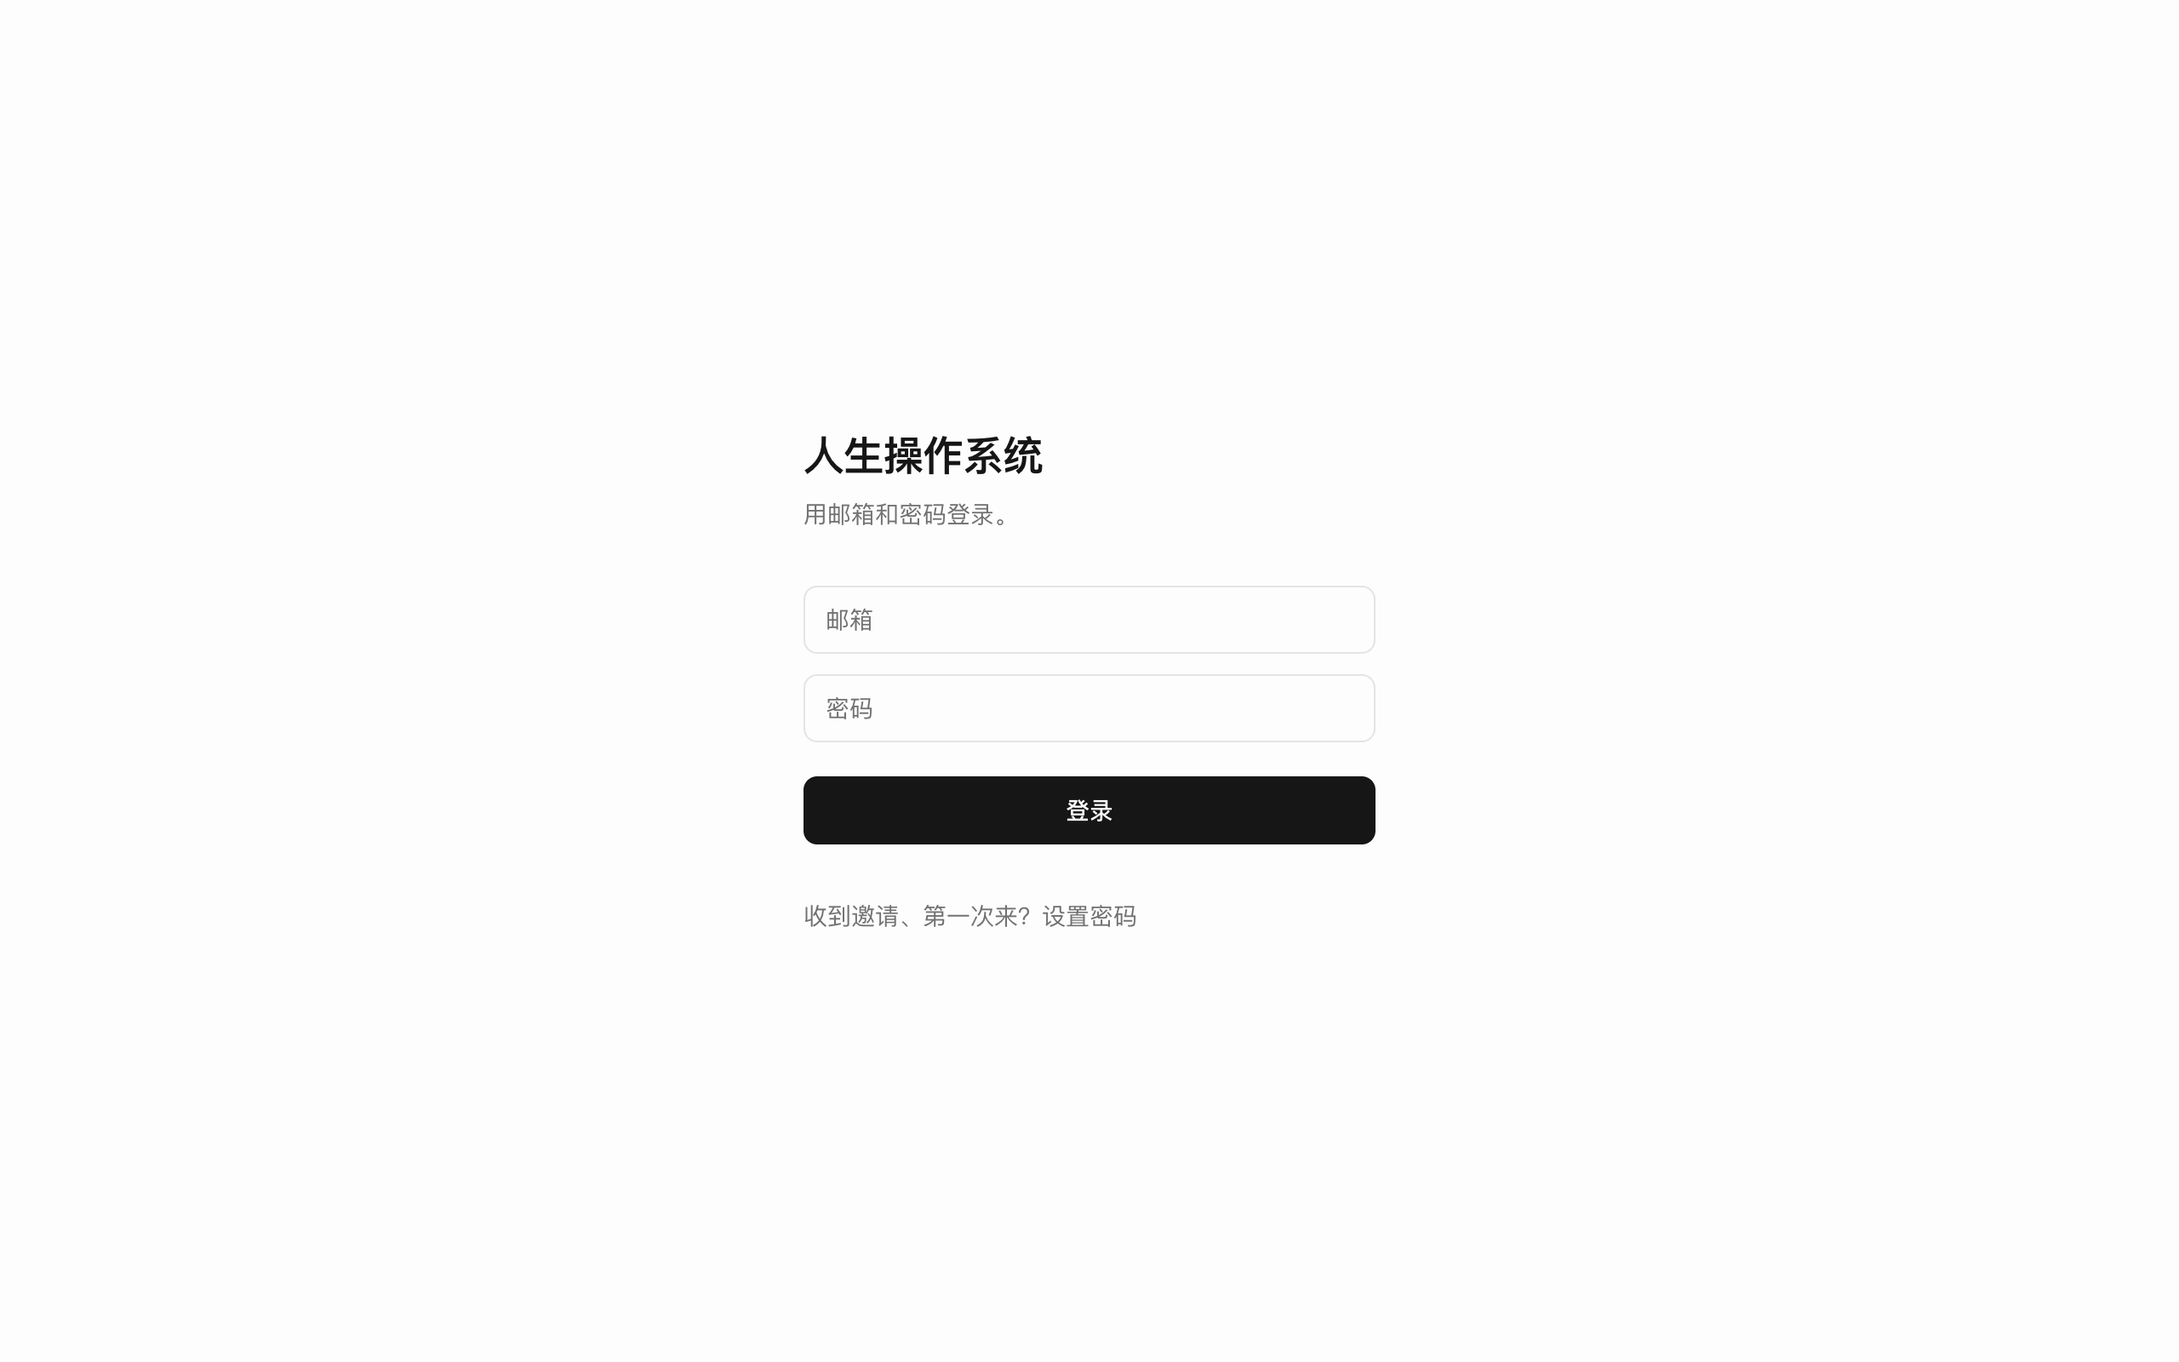
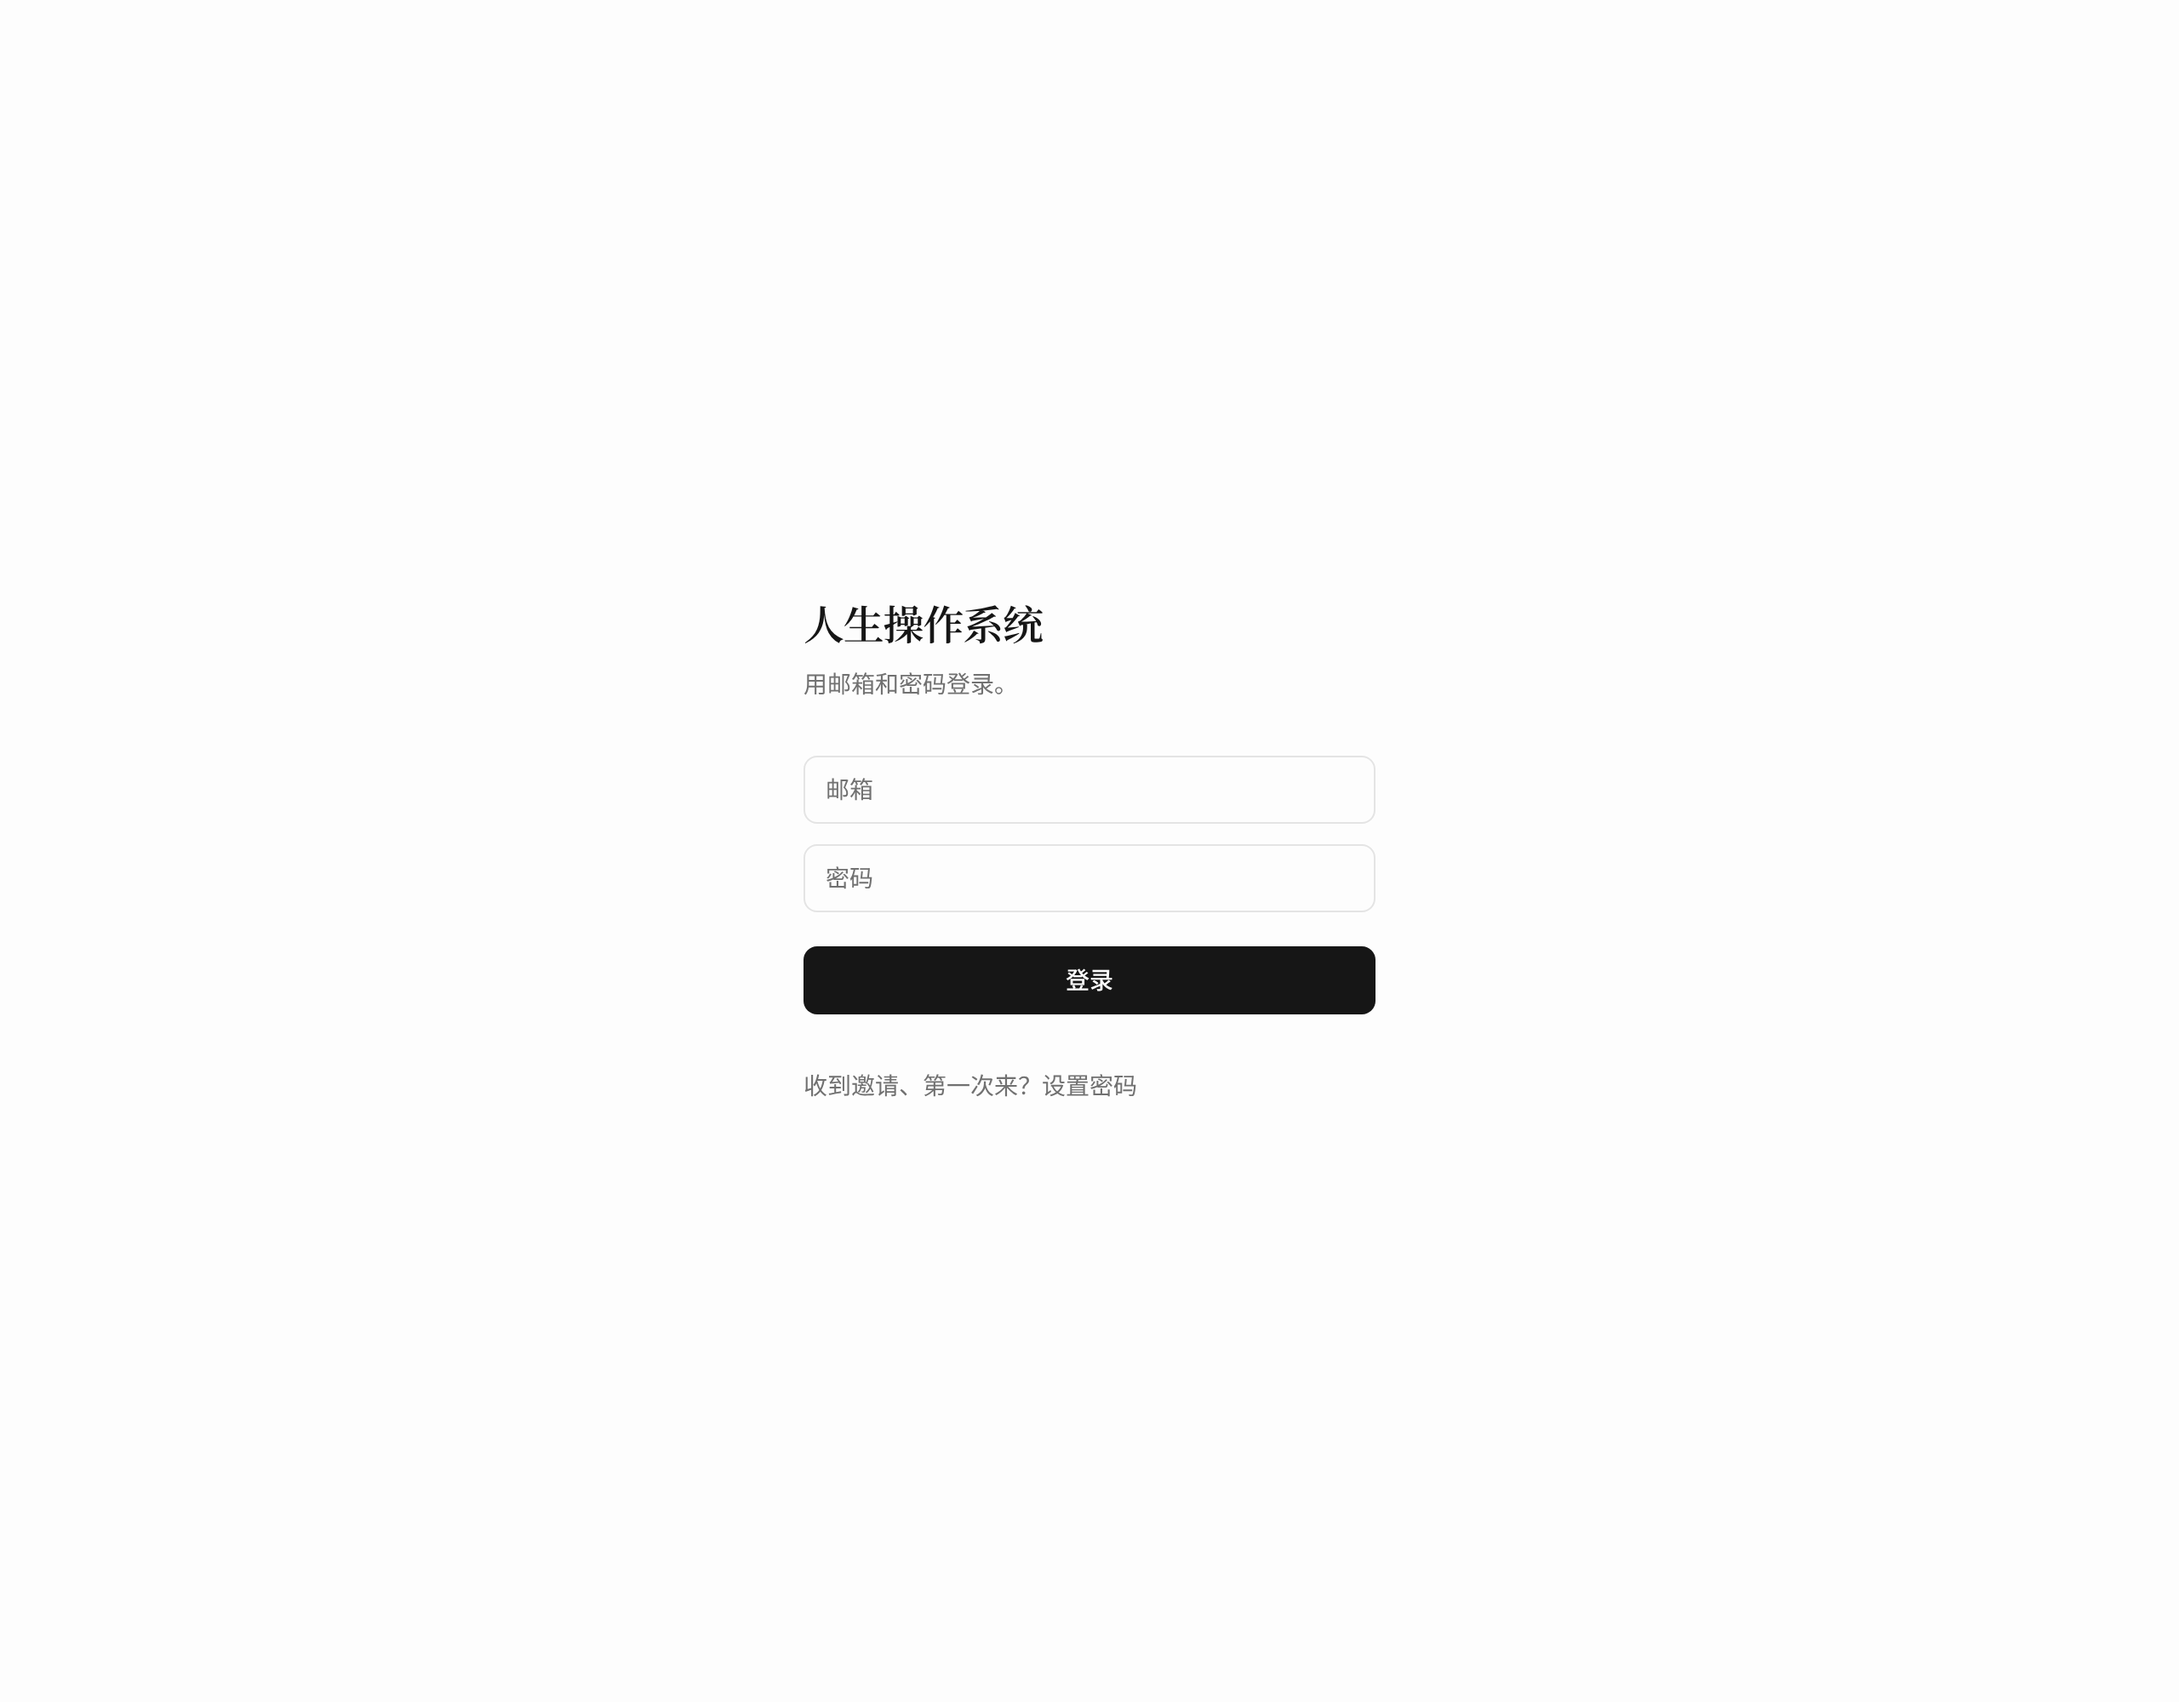
Fonts: C headings (Fraunces + Noto Serif SC) with A body (Geist + system CJK sans)
HarmonyOS Sans license forbids modification (no subsetting / woff2), so Chinese body text uses the system sans.

Claude-Session: https://claude.ai/code/session_01AF8Q71pDq6iZGanP2XX7ab

Changed region(s): [[0.3438, 0.4375, 0.6562, 0.6875], [0.375, 0.3125, 0.5, 0.4062]]

diff --git a/src/index.css b/src/index.css
@@ -2,14 +2,15 @@
 
 /*
  * Design tokens —— 全站只能用这里定义的值（见 DESIGN.md）。
- * 中性灰阶 + 一个主色 + 状态色；字体为方案 A「精密」。
+ * 字体 2026-11-25 定稿：正文 / 数字用方案 A（Geist + 系统中文黑体），标题用方案 C（Fraunces + 思源宋体）。
+ * 字体文件在 src/fonts.css 引入。
  */
 @theme {
-  /* 字体方案 A「精密」（2026-11-25 LYC 选定，见 DESIGN.md）。中文用系统字体：苹方 / HarmonyOS Sans / 微软雅黑 */
-  --font-sans: "Geist Variable", "PingFang SC", "HarmonyOS Sans SC", "Microsoft YaHei", "Noto Sans CJK SC", system-ui, sans-serif;
+  /* 中文正文用系统黑体（苹方 / 鸿蒙 / 微软雅黑），不下载：鸿蒙黑体的许可证不允许子集化，整包每个字重约 8MB */
+  --font-sans: "Geist Variable", "PingFang SC", "HarmonyOS Sans SC", "Microsoft YaHei", "Noto Sans SC", system-ui, sans-serif;
   --font-mono: "Geist Mono Variable", ui-monospace, "SF Mono", monospace;
-  /* 标题 / 高层节点（愿景、领域）用的字体；目前与正文相同 */
-  --font-display: var(--font-sans);
+  /* 标题和高层节点（今天、愿景、领域、项目名） */
+  --font-display: "Fraunces Variable", "Noto Serif SC Variable", "Songti SC", serif;
 
   --color-canvas: oklch(0.995 0 0);
   --color-ink: oklch(0.2 0 0);

diff --git a/src/features/design-preview/TodayPreview.tsx b/src/features/design-preview/TodayPreview.tsx
@@ -2,8 +2,8 @@ import { useState } from "react";
 import { cn } from "@/lib/utils";
 
 /**
- * 阶段 1 第一步：今日视图示例页（设计确认用）。字体已选定方案 A，见 DESIGN.md。
- * 样例数据写死在这里，不连后端。打开方式：本地 /?preview=today
+ * 阶段 1 第一步：今日视图示例页，用来确认设计系统（DESIGN.md）。
+ * 样例数据写死在这里，不连后端。打开方式：/?preview=today
  *
  * 也演示了 LYC 的合并视图需求：私人和 EverHarvest 的任务在同一个列表里，每行标出空间，可按空间筛选。
  */

diff --git a/src/features/auth/SignIn.tsx b/src/features/auth/SignIn.tsx
@@ -44,7 +44,7 @@ export function SignIn() {
   return (
     <main className="mx-auto flex min-h-dvh max-w-sm flex-col justify-center gap-8 px-6">
       <div className="space-y-2">
-        <h1 className="text-2xl font-semibold tracking-tight text-ink">人生操作系统</h1>
+        <h1 className="font-display text-2xl font-semibold tracking-tight text-ink">人生操作系统</h1>
         <p className="text-sm text-ink-3">
           {mode === "signIn" ? "用邮箱和密码登录。" : "收到邀请的邮箱，第一次来请先设置密码。"}
         </p>

diff --git a/src/features/home/Home.tsx b/src/features/home/Home.tsx
@@ -15,7 +15,7 @@ export function Home() {
   return (
     <main className="mx-auto max-w-2xl px-6 py-16">
       <header className="mb-12 flex items-baseline justify-between">
-        <h1 className="text-2xl font-semibold tracking-tight text-ink">今天</h1>
+        <h1 className="font-display text-2xl font-semibold tracking-tight text-ink">今天</h1>
         <button
           type="button"
           onClick={() => void authClient.signOut()}

diff --git a/src/main.tsx b/src/main.tsx
@@ -4,8 +4,7 @@ import { StrictMode, Suspense, lazy } from "react";
 import { createRoot } from "react-dom/client";
 import App from "./App";
 import { authClient } from "@/lib/auth-client";
-import "@fontsource-variable/geist";
-import "@fontsource-variable/geist-mono";
+import "./fonts.css";
 import "./index.css";
 
 const convex = new ConvexReactClient(import.meta.env.VITE_CONVEX_URL as string);

diff --git a/src/fonts.css b/src/fonts.css
@@ -1,0 +1,5 @@
+/* 字体文件（DESIGN.md「字体」）。都是 OFL 授权、按 unicode-range 分片的 woff2，浏览器只下载用到的字。 */
+@import "@fontsource-variable/geist";
+@import "@fontsource-variable/geist-mono";
+@import "@fontsource-variable/fraunces";
+@import "@fontsource-variable/noto-serif-sc";

diff --git a/DESIGN.md b/DESIGN.md
@@ -2,7 +2,7 @@
 
 **所有前端改动都必须遵守本文件。** 每次前端改动的 PR 都附浅色和深色截图。
 
-状态：字体已定稿（方案 A）；其余数值随阶段 1 页面推进继续细化，改动同步更新本文件和 `src/index.css`。
+状态：字体已定稿（C 的标题 + A 的正文）；其余数值随阶段 1 页面推进继续细化，改动同步更新本文件和 `src/index.css`。
 
 ## 审美方向：克制，人狠话不多
 
@@ -24,12 +24,15 @@
 
 ### 字体
 
-- **已定稿（2026-11-25，LYC 选定方案 A「精密」）**：冷静、理性，接近 Robinhood / Apple。
-  - 西文：Geist（`@fontsource-variable/geist`，可变字重）
+- **已定稿（2026-11-25，LYC 选定「C 的标题 + A 的正文」）**：正文冷静利落（A「精密」），标题有书卷气、层级更强（C「编辑感」）。
+  - 正文西文：Geist（`@fontsource-variable/geist`，可变字重）
   - 数字 / 代码：Geist Mono（`@fontsource-variable/geist-mono`），数字一律 `tabular-nums`
-  - 中文：用系统字体，不打包——苹方（Mac / iOS）、HarmonyOS Sans SC（华为设备）、微软雅黑（Windows）、Noto Sans CJK（其他）。HarmonyOS Sans 没有现成的 web 字体包，以后如需全平台统一再评估自托管（先核对许可证）。
-  - 标题字体 `--font-display` 目前与正文相同，留作以后给愿景 / 领域等高层节点换字体的口子。
-- 对比时的另外两套（B 温度：Instrument Sans + MiSans；C 编辑感：Fraunces / 思源宋体 + Source Sans 3）未采用。
+  - 正文中文：用系统黑体，不打包——苹方（Mac / iOS）、HarmonyOS Sans SC（华为设备）、微软雅黑（Windows）、Noto Sans SC（其他）。
+    不打包 HarmonyOS Sans 的原因：它的许可证禁止任何修改（包括子集化、转 woff2），整包每个字重约 8MB，不适合网页和手机。
+  - 标题 `--font-display`：西文 Fraunces（`@fontsource-variable/fraunces`），中文思源宋体（`@fontsource-variable/noto-serif-sc`，OFL，按 unicode-range 分片，只下载用到的字）。
+    用在页面标题、愿景、领域、项目名等高层节点上；任务行、按钮、表单一律用正文字体。
+  - 字体文件统一在 `src/fonts.css` 引入。
+- 对比时未采用：B 温度（Instrument Sans + MiSans）。
 - 示例页：本地 `npm run dev` 后打开 `/?preview=today`（只在开发环境可用），截图在 `screenshots/phase1-today/`。
 
 ### 颜色
